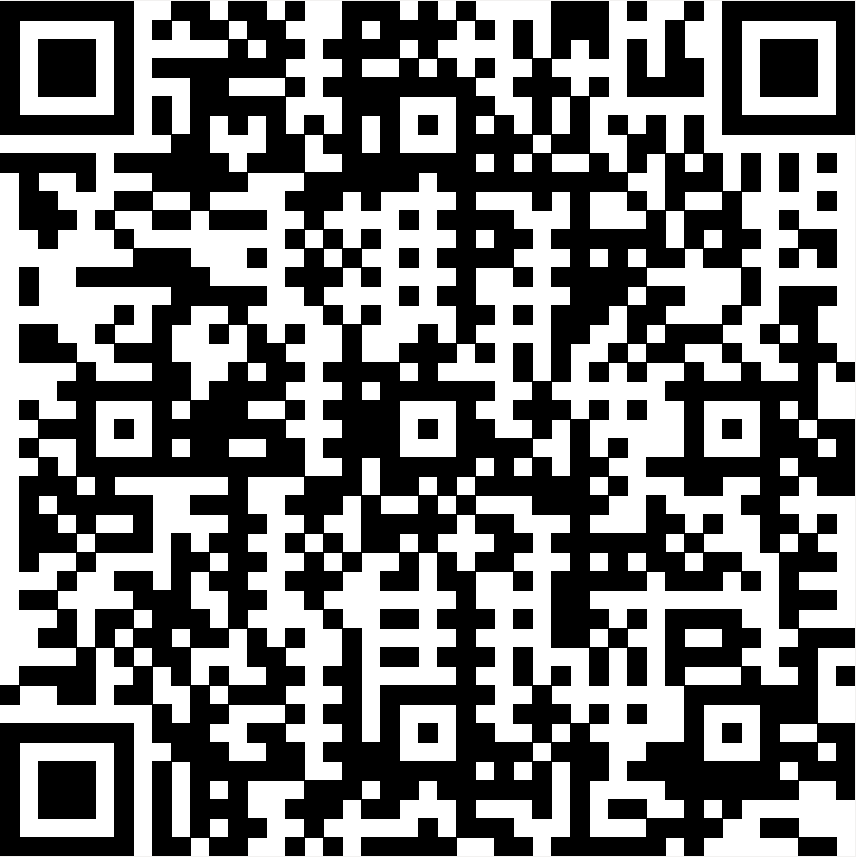
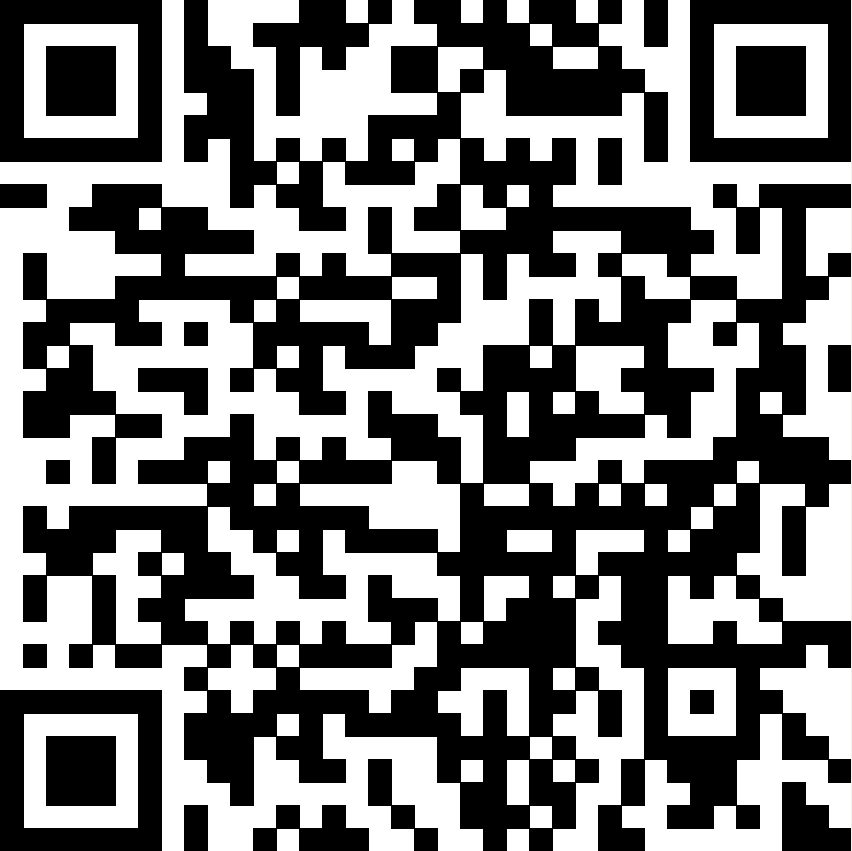
updated BTC payment link

diff --git a/contact/index.html b/contact/index.html
@@ -63,15 +63,15 @@
 		<br>
 
 		<div style="text-align:center;">
-                	<a href="bitcoin:12DNSGvGdwDbcNLnscxN7tNHVFhsEVApUd?amount=0.01&label=BC%20SUPERCLUSTER" title="contribute BTC!" style="color:white;">
+                	<a href="bitcoin:1brandonQbx5qSEzyhz7ZngWMgavv61uq?amount=0.01&label=BC%20SUPERCLUSTER" title="contribute BTC!" style="color:white;">
 	                	<img src="../img/bc-btc.png" style="width:210px;border:3px solid white;"><br>
-                        	say THANKS with bitcoin<br>
-				<span style="font-size:0.55em;">12DNSGvGdwDbcNLnscxN7tNHVFhsEVApUd</span><br><br>
+                        	say "thanks!" with ɃTC<br>
+				<span style="font-size:0.55em;">1brandonQbx5qSEzyhz7ZngWMgavv61uq</span><br><br>
 			</a>
 
 			<a target="_blank" href="http://cash.me/bsc" title="contribute USD!" style="color:white;">
 				<img src="../img/cashme.png" style="border-radius:15px; width:215px;" /><br>
-                        	say THANKS with dollars<br>
+                        	say "thanks!" with $USD<br>
 			</a>
 			<br>
 		</div>
